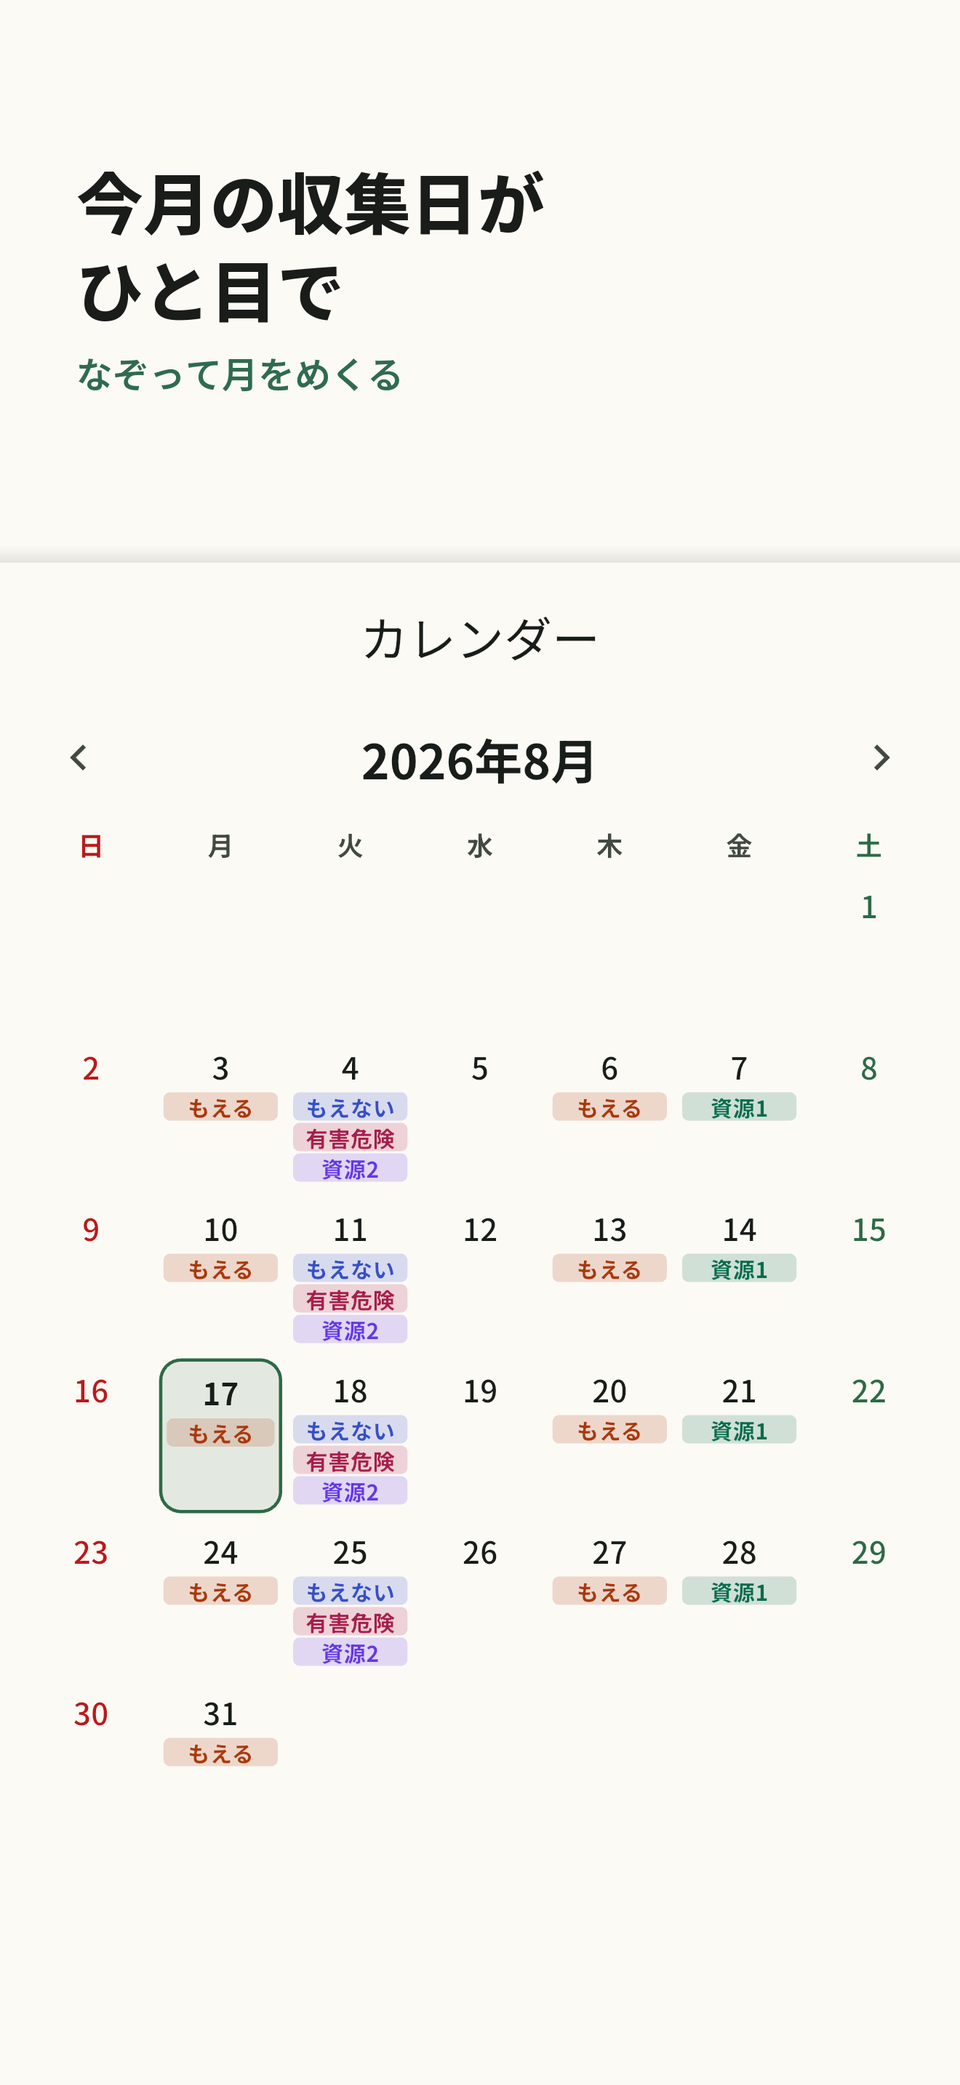
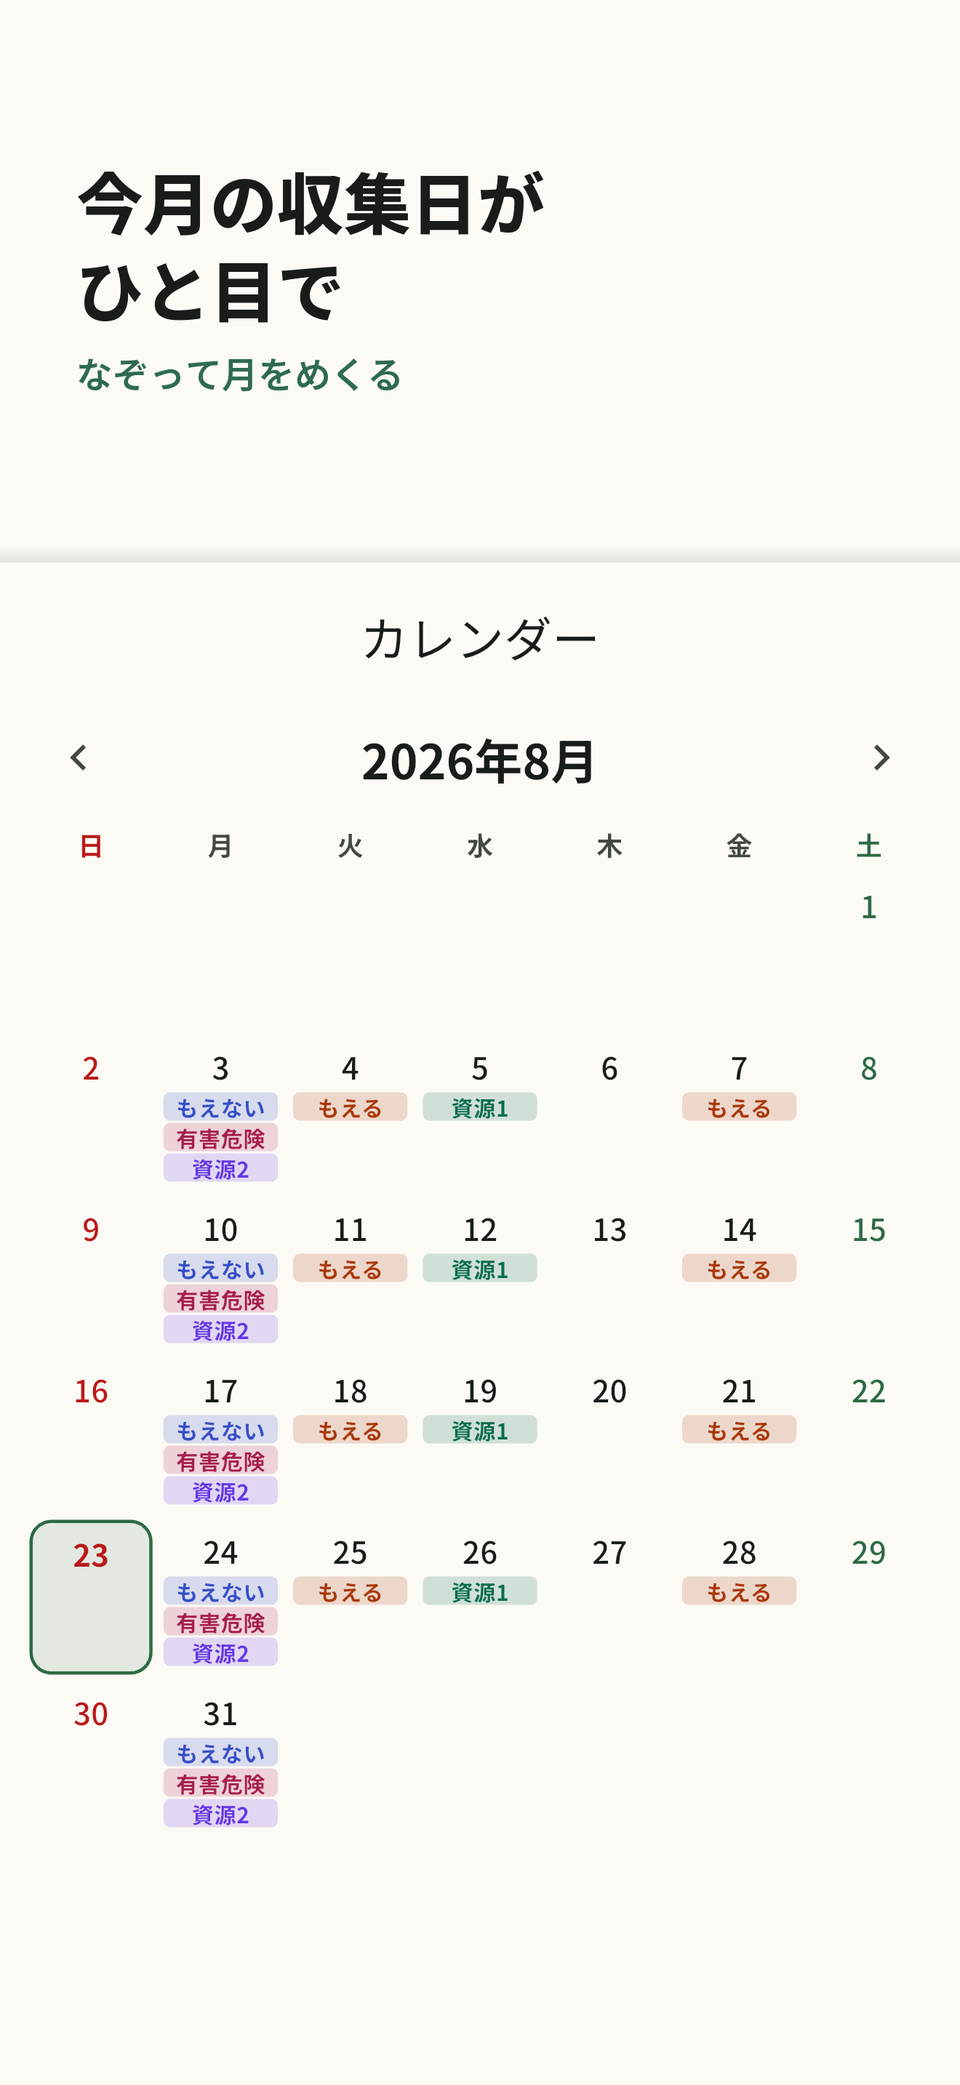
1.1.1を審査に出す準備をする (#117)
* 1.1.1を審査に出す準備をする

1.1.0が公開済み（App Store Connectで READY_FOR_SALE）なので、1.1.1の
提出物を用意した。App Store Connect API で反映済みで、提出ボタンだけ
押していない。

文言
- store_assets/app_store/1.1.1.md に、新機能・プロモーション・キーワード・
  審査メモ・説明の差し替え箇所をまとめた
- 「このバージョンの新機能」は1.1.0からの差分だけ。並び順の修正と、
  抜けていた3品目の追加
- キーワードは変えていない。機能が増えていないので、効いている語を
  いじる理由がない

スクリーンショット
- 6枚とも1.1.1のビルドで撮り直した。04_dictionary は今回の修正そのものが
  写る1枚で、1.1.0のものは「アイロン→アルバム→アルミ箔→油→網戸」と
  直す前の並びがそのまま写っていた
- 撮影に使う地区を「浦和区 大原1〜5丁目」から「南区 南浦和1〜4丁目」に
  変えた。撮影日が日曜で、大原だと翌月曜がもえるごみ1区分だけになり、
  ホームの「明日」もウィジェットも1区分しか出ないため
- store_assets/screenshots/README.md に撮り方を書き直した。
  simctl spawn の defaults write はアプリのコンテナではなくシミュレータ側の
  ルートに書くので効かないこと、plistはシミュレータを停止してから置くこと、
  Flutterは要求されるまで意味づけの木を作らないのでタブは座標で
  クリックすること

品目数の表記
- 443＋52で495としていた箇所を、446＋52の498に直した。
  dictionary.json 単体の件数を指している記述は446にしてある

ビルド番号
- 1.1.1+22 でアップロードしたが、同じ日にビルド22が先に上がっていたため、
  App Store Connect が受け取り時に23へ繰り上げた。審査に出るのは23なので
  pubspec.yaml もそれに合わせる

pubspec.lock は worktree を作ったときの flutter pub get による transitive の
更新。アップロードした実体もこの解決でビルドしている。

Claude-Session: https://claude.ai/code/session_01STMuCpyURizm74tbtjJUps

* プラスチックの分別変更に該当しそうな品目の数を、446件に数え直す

#111 で早見表が443件から446件になったので、母数を直す。足した3件のうち
「マーガリン・バターの容器（プラスチック製）」は該当するので21件から22件に
なる。「（車の）ホイール」は粗大ごみ、「カセットボンベ」は金属製で
どちらも該当しない。

市が★4の印を付けているのは6件のままで、こちらは変わらない。

Claude-Session: https://claude.ai/code/session_01STMuCpyURizm74tbtjJUps

---------

Changed region(s): [[0.0311, 0.4965, 0.8386, 0.8999]]

diff --git a/lib/domain/sorting_change.dart b/lib/domain/sorting_change.dart
@@ -6,8 +6,8 @@
 ///
 /// データを日付で切り替えることはしない。市が公表しているのは
 /// 「最長辺30cm未満・すべてプラスチック製」という条件だけで、
-/// 品目ごとにどうなるかは示されていない。443件のうち該当しそうなものは
-/// 21件あるが、市が印を付けているのは6件だけで、残りは材質や大きさを
+/// 品目ごとにどうなるかは示されていない。446件のうち該当しそうなものは
+/// 22件あるが、市が印を付けているのは6件だけで、残りは材質や大きさを
 /// 品物ごとに見ないと決められない（「おもちゃ」「めがねケース」など）。
 /// 推測で分類すると、市の情報と見分けのつかない誤りを混ぜることになる。
 class SortingChange {

diff --git a/lib/features/dictionary/dictionary_page.dart b/lib/features/dictionary/dictionary_page.dart
@@ -18,7 +18,7 @@ import 'waste_item_sheet.dart';
 /// 収集日を知りたいのがホーム・カレンダーなら、こちらは「これは何ごみか」を
 /// 調べるための画面。名前で絞り込めることが第一なので、検索欄を最上部に置く。
 ///
-/// 一覧は市の早見表と同じ五十音順で、右端に索引を出す。495件あるので、
+/// 一覧は市の早見表と同じ五十音順で、右端に索引を出す。498件あるので、
 /// 検索語を思いつかないときに「た行あたり」と当たりを付けて飛べる必要がある。
 class DictionaryPage extends ConsumerStatefulWidget {
   const DictionaryPage({super.key});

diff --git a/scripts/make_store_screenshots.py b/scripts/make_store_screenshots.py
@@ -31,7 +31,7 @@ STRIPS = [
     ("01_home.png", "明日は何ごみ？", "開いた瞬間に分かる"),
     ("02_widget.png", "ホーム画面に\n置いておける", "開かなくても明日が分かる"),
     ("03_calendar.png", "今月の収集日が\nひと目で", "なぞって月をめくる"),
-    ("04_dictionary.png", "495品目を\n五十音で探せる", "「椅子」でも「いす」でも引ける"),
+    ("04_dictionary.png", "498品目を\n五十音で探せる", "「椅子」でも「いす」でも引ける"),
     ("05_settings.png", "前日の夜に\nお知らせ", "出し忘れを防ぐ"),
 ]
 

diff --git a/store_assets/app_store/1.1.1.md b/store_assets/app_store/1.1.1.md
@@ -1,0 +1,122 @@
+# 1.1.1 の App Store 提出用文言
+
+1.1.0（ビルド21）から1.1.1（ビルド23）で変わったところをもとに書いた文言。
+**App Store Connect API で反映済み**（バージョン1.1.1を作り、ビルド23を紐づけ、
+スクリーンショット6枚も入れ替え済み）。提出ボタンだけ押していない。
+
+1.1.0は App Store Connect API で確認したところ READY_FOR_SALE、つまり
+すでに公開済みなので、「このバージョンの新機能」は1.1.0からの差分だけを書く。
+
+`pubspec.yaml`は1.1.1+22のまま出したが、同じ日にビルド22が先に上がっていたため、
+App Store Connect 側が受け取ったときに23へ繰り上げた（ビルド番号の自動管理）。
+アップロードした実体のInfo.plistは22だが、審査に出るのは23。リポジトリの
+ビルド番号も23に合わせてある。
+
+括弧内は App Store Connect の入力欄の上限文字数。
+
+## このバージョンの新機能（4,000字）
+
+```
+分別の一覧の並び順を直しました。
+
+■ 読みの五十音順に並ぶようになりました
+一覧が読みの順になっていませんでした。「あ行」の先頭が「アイロン」の次に「アルバム」「アルミ箔」と続き、その後ろに「油」「網戸」が来ていました。市の分別早見表と同じ、読みの五十音順に並べ直しました。索引で行へ飛んだあと、目当ての品目のあたりを付けやすくなります。
+
+■ 抜けていた3品目を足しました
+「（車の）ホイール」「カセットボンベ（カートリッジ式ボンベ）」「マーガリン・バターの容器（プラスチック製）」が一覧に出ていませんでした。市の資料から取り込むときに落ちていたものです。調べられる品目は495品目から498品目になりました。
+
+いずれも端末の中だけで完結します。通信しない点はこれまでどおりです。
+```
+
+## プロモーションテキスト（170字）
+
+1.1.0のものを残し、品目数だけ498に直した。ホーム画面ウィジェットは
+1.1.0で入れたものだが、いちばん新しい目玉の機能であることは変わらないので
+差し替えない。
+
+```
+ホーム画面ウィジェットを追加しました。アプリを開かなくても、明日は何ごみかがホーム画面で分かります。分別で調べられる品目は498品目に増え、「椅子」でも「いす」でも引けるようになりました。
+```
+
+## キーワード（100字・カンマ区切り）
+
+変更なし。1.1.1で機能は増えていないので、効いている語をいじる理由がない。
+
+```
+ごみ,ゴミ,ごみ出し,ゴミ出し,分別,ごみ分別,収集日,ごみの日,埼玉,埼玉県,浦和,大宮,岩槻,リマインダー,通知,ウィジェット,粗大ごみ
+```
+
+## 説明（4,000字）— 1.1.0からの差し替え箇所
+
+骨格は1.1.0のまま、品目数の2か所だけを直した。
+
+1. 「■ 495品目の分別を、五十音で探せる」→「■ 498品目の…」
+2. 本文の「…品目を補って、495品目を収録しました」→「…498品目を収録しました」
+
+早見表そのものは443件から446件になった（落ちていた3品目を戻したため）。
+498は、そこに図解のページからの補い52件を足した数。
+
+## App Review に関する情報（審査メモ）
+
+1.0.0からの日英併記をそのまま残し、末尾の「今回の変更（1.1.0）について」／
+「What is new in this version (1.1.0)」の節だけを1.1.1のものに差し替えた。
+機能も権限も増えていないことを、担当者が最初に読めるようにしてある。
+
+```
+■ 今回の変更（1.1.1）について
+
+分別の一覧の並び順の修正です。読みの五十音順に並ぶようになりました
+（これまでは同じ行の中で、カタカナの品目が漢字の品目より前に来ていました）。
+あわせて、市の資料から取り込むときに落ちていた3品目
+（「（車の）ホイール」「カセットボンベ（カートリッジ式ボンベ）」
+「マーガリン・バターの容器（プラスチック製）」）を足し、調べられる品目が
+495から498になりました。
+
+機能の追加はなく、新しい権限も要求しません。サーバーと通信しない点も
+1.0.0から変わっていません。
+```
+
+```
+■ What is new in this version (1.1.1)
+
+This version fixes the ordering of the sorting dictionary. Items are now listed
+in Japanese phonetic (gojuon) order of their readings; previously, within the
+same row, katakana items sorted before kanji items. It also restores three items
+that had been dropped while extracting the data from the city's materials,
+bringing the dictionary from 495 to 498 items.
+
+There are no new features and no new permissions. As in 1.0.0, the app does not
+communicate with any server.
+```
+
+## 変更しないもの
+
+- 年齢制限（4+）、カテゴリ、価格
+- プライバシー申告（データを収集しない）
+- 暗号化の申告 — `ITSAppUsesNonExemptEncryption = false`
+  （`ios/Runner/Info.plist`）
+- iPhone専用（`TARGETED_DEVICE_FAMILY = 1`）。iPad用スクリーンショットは不要
+- サポートURL（GitHubのIssues）
+
+## スクリーンショット
+
+`store_assets/screenshots/6.9-inch-decorated/` の6枚。枚数と並びは1.1.0と同じで、
+中身は1.1.1のビルドで撮り直した。
+
+| # | ファイル | コピー |
+|---|---|---|
+| 1 | `00_onboarding.png` | 郵便番号だけで／すぐ使える |
+| 2 | `01_home.png` | 明日は何ごみ？ |
+| 3 | `02_widget.png` | ホーム画面に／置いておける |
+| 4 | `03_calendar.png` | 今月の収集日が／ひと目で |
+| 5 | `04_dictionary.png` | 498品目を／五十音で探せる |
+| 6 | `05_settings.png` | 前日の夜に／お知らせ |
+
+`04_dictionary.png` は今回の修正そのものが写る1枚なので、必ず差し替える。
+1.1.0のものは「アイロン→アルバム→アルミ箔→油→網戸」と、直す前の並びが
+そのまま写っていた。
+
+撮影に使った地区を「浦和区 大原1〜5丁目」から「南区 南浦和1〜4丁目」に変えた。
+撮影日（2026-08-23・日曜）の翌日に収集がある区分の数で選んでいる。大原だと
+月曜がもえるごみだけになり、ホームの「明日」もウィジェットも1区分しか
+出ないため、南浦和（月曜がもえない・有害危険・資源物2類の3区分）にした。

diff --git a/store_assets/screenshots/README.md b/store_assets/screenshots/README.md
@@ -5,24 +5,64 @@ App Storeが必須とするサイズ。
 
 ## 撮り方
 
+シミュレータには`flutter build ios --simulator`のdebugビルドを入れる。
+Releaseはシミュレータ向けに作れない（`flutter build`が断る）が、
+`debugShowCheckedModeBanner: false`にしてあるので見た目は変わらない。
+
 シミュレータでは実機のように地区選択のUI操作を自動化するのが難しいため、
 `NSUserDefaults`（`flutter.selected_area`キー）に地区データを直接書き込んで
 状態を再現している。
 
+`plutil`や`defaults`で書くのではなく、**シミュレータを停止させてから
+plistを丸ごと置き、起動し直す**。動いている間に書いても`cfprefsd`が
+自分のキャッシュを正としてしまい、アプリからは読めない。
+`xcrun simctl spawn <UDID> defaults write` も効かない。spawnした
+プロセスはアプリのサンドボックスの外にいるので、書き込み先が
+アプリのコンテナではなくシミュレータ側のルートになる。
+
 ```bash
 SIM=<シミュレータのUDID>
-CONTAINER=$(xcrun simctl get_app_container $SIM io.github.ktakada42.saitamagomicalendar data)
-PLIST="$CONTAINER/Library/Preferences/io.github.ktakada42.saitamagomicalendar.plist"
-# アプリを一度起動してplistを作らせてから、terminateして書き込む
+BID=io.github.ktakada42.saitamagomicalendar
+CONTAINER=$(xcrun simctl get_app_container $SIM $BID data)
+xcrun simctl shutdown $SIM
+# $CONTAINER/Library/Preferences/$BID.plist を作る（plistlibなど）
+#   flutter.selected_area        … areas.json の地区をそのままJSON文字列で
+#   flutter.notification_enabled … true（通知のコピーと画面を合わせるため）
+#   flutter.notification_minutes … 1200（20:00）
+#   flutter.theme_mode           … light
+xcrun simctl boot $SIM
 ```
 
-使用した地区は「浦和区 大原1〜5丁目」（`assets/data/areas.json`の`manual-151`）。
-5区分がバランスよく別々の曜日に散らばっており、カレンダー・ホームの
-見た目が分かりやすいため選んだ。
+地区は撮る日によって選び直す。**翌日に何区分の収集があるかで、ホームの
+「明日」とウィジェットの見え方が決まる**ため。1.1.1では日曜に撮ったので、
+月曜が3区分（もえない・有害危険・資源物2類）ある「南区 南浦和1〜4丁目」
+（`areas.json`の`manual-213`）を使った。1.1.0までは「浦和区 大原1〜5丁目」
+（`manual-151`）で、こちらは月曜がもえるごみだけになる。
 
-タブの遷移はSystem Eventsのアクセシビリティ経由でボトムメニューの
-`AXButton`を直接クリックしている（座標クリックは機種ごとの余白の違いで
-ずれるため使っていない）。
+ステータスバーは`xcrun simctl status_bar`で揃える。再起動すると外れるので、
+`boot`のたびに掛け直す。
+
+```bash
+xcrun simctl status_bar $SIM override --time "9:41" \
+  --dataNetwork wifi --wifiMode active --wifiBars 3 \
+  --cellularMode active --cellularBars 4 \
+  --batteryState charging --batteryLevel 100
+```
+
+タブの遷移はSystem Events経由でボトムメニューを座標クリックする。
+Flutterはアクセシビリティが要求されるまで意味づけの木を作らないので、
+`AXButton`を名前で探しても出てこない。
+
+画面の座標からMacの座標への変換は、Simulatorウィンドウの`group 1`
+（＝端末の画面そのもの）の位置と大きさから出す。ウィンドウの位置や
+表示倍率が変わっても、これなら追随する。
+
+```bash
+osascript -e 'tell application "System Events" to tell process "Simulator" \
+  to return {position of group 1 of window 1, size of group 1 of window 1}'
+# 画面(pt) → Mac = 位置 + 画面座標 × (group1の大きさ ÷ 440x956)
+# タブの中心は y=879pt、x はホーム55 / カレンダー164 / 分別273 / 設定384
+```
 
 **初回設定の画面を撮るときは、アプリを`uninstall`してから入れ直す。**
 plistを消すだけでは`cfprefsd`がキャッシュを持っていて効かず、
@@ -96,5 +136,5 @@ python3 scripts/make_store_screenshots.py
 | `01_home.png` | ホーム | 明日は何ごみ？ |
 | `02_widget.png` | ホーム画面ウィジェット（中・小） | ホーム画面に／置いておける |
 | `03_calendar.png` | カレンダー | 今月の収集日が／ひと目で |
-| `04_dictionary.png` | 分別 | 495品目を／五十音で探せる |
+| `04_dictionary.png` | 分別 | 498品目を／五十音で探せる |
 | `05_settings.png` | 設定 | 前日の夜に／お知らせ |

diff --git a/docs/requirements.md b/docs/requirements.md
@@ -125,7 +125,7 @@
   ダイアログには元の資料へのリンクも添える。要約なので、判断に迷うときの
   ために元の資料へ出られるようにする（このアプリについて・分別の詳細
   シートと同じ考え方）
-- 右端に五十音の索引を出す。495件あるので、検索語を思いつかないときに
+- 右端に五十音の索引を出す。498件あるので、検索語を思いつかないときに
   当たりを付けられる必要がある。絞り込み中は行が飛び飛びになって
   かえって探しにくいので出さない
 - 索引は**五十音の行（あ・か・さ…）10個**。市の早見表はかな1文字ごとに
@@ -154,7 +154,7 @@
   消すと古い分類を正しいものとして読み続けることになる。
   **データを日付で切り替えることはしない**。市が公表しているのは
   「最長辺30cm未満・すべてプラスチック製」という条件だけで、品目ごとに
-  どうなるかは示されていない。443件のうち該当しそうなものは21件あるが
+  どうなるかは示されていない。446件のうち該当しそうなものは22件あるが
   市が印を付けているのは6件だけで、残りは材質や大きさを品物ごとに
   見ないと決められない（「おもちゃ」「めがねケース」など）。
   推測で分類すると、市の情報と見分けのつかない誤りを混ぜることになる
@@ -305,7 +305,7 @@
 
 同梱アセット（`assets/data/dictionary.json`）に、品目ごとの出し先を持つ。
 
-- `items`：品目名・出し先ID・出し先の表示名・出し方の注意点。443件
+- `items`：品目名・出し先ID・出し先の表示名・出し方の注意点。446件
 - 出し先は5区分（`GarbageCategory`）に加えて、粗大ごみ・小型家電・電池回収ボックス・
   収集できないもの、の4つを持つ。5区分に丸めない
 - 出典は同じPDFマニュアルの「ごみの分別早見表」。生成方法は

diff --git a/README.md b/README.md
@@ -23,7 +23,7 @@
 | 初回設定 | 郵便番号または一覧から地区を選ぶと曜日が自動で決まる。地区が見つからない場合のみ曜日を手入力する。設定するまで他の画面に進まない |
 | ホーム | 明日の分別を最大サイズで表示。収集日の朝は、出す期限を過ぎるまで「今日」を出す。この先の予定・分別ごとの次回収集日 |
 | カレンダー | 当月のごみ出し日を月表示。左右になぞって月を送れる（前1か月・後3か月）。日をタップで出し方 |
-| 分別 | 495品目を五十音順に。品目名で検索、右端の索引をなぞって行へ飛ぶ |
+| 分別 | 498品目を五十音順に。品目名で検索、右端の索引をなぞって行へ飛ぶ |
 | 設定 | 地区の変更、通知、画面の明るさ、設定中の曜日一覧、分別ごとの出し方 |
 | このアプリについて | バージョン・出典・プライバシーポリシー・ライセンス |
 
